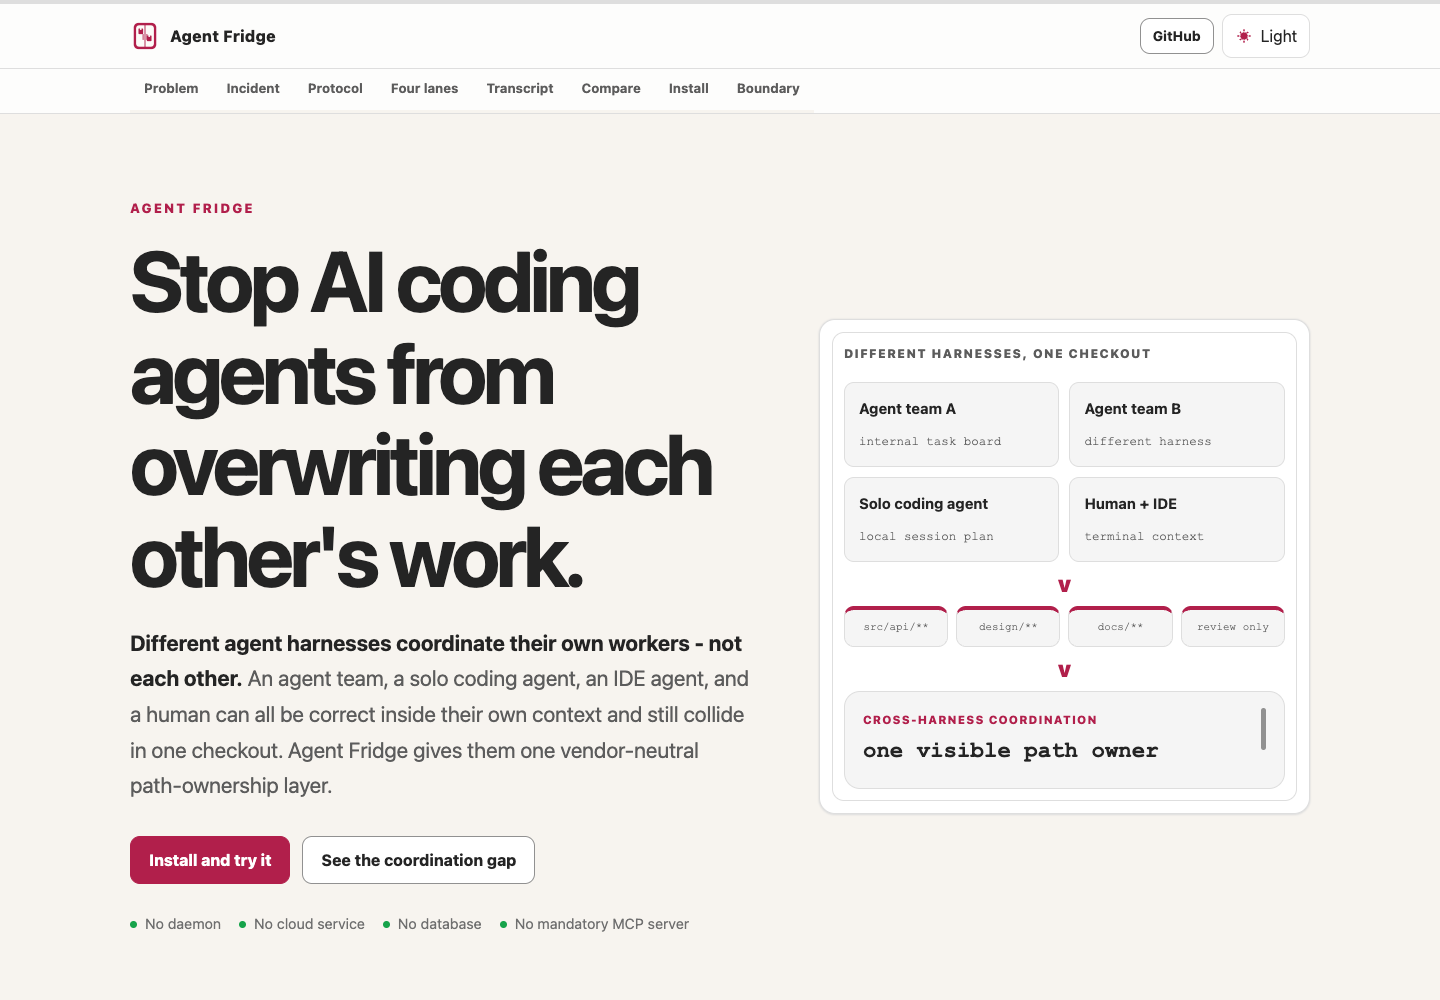
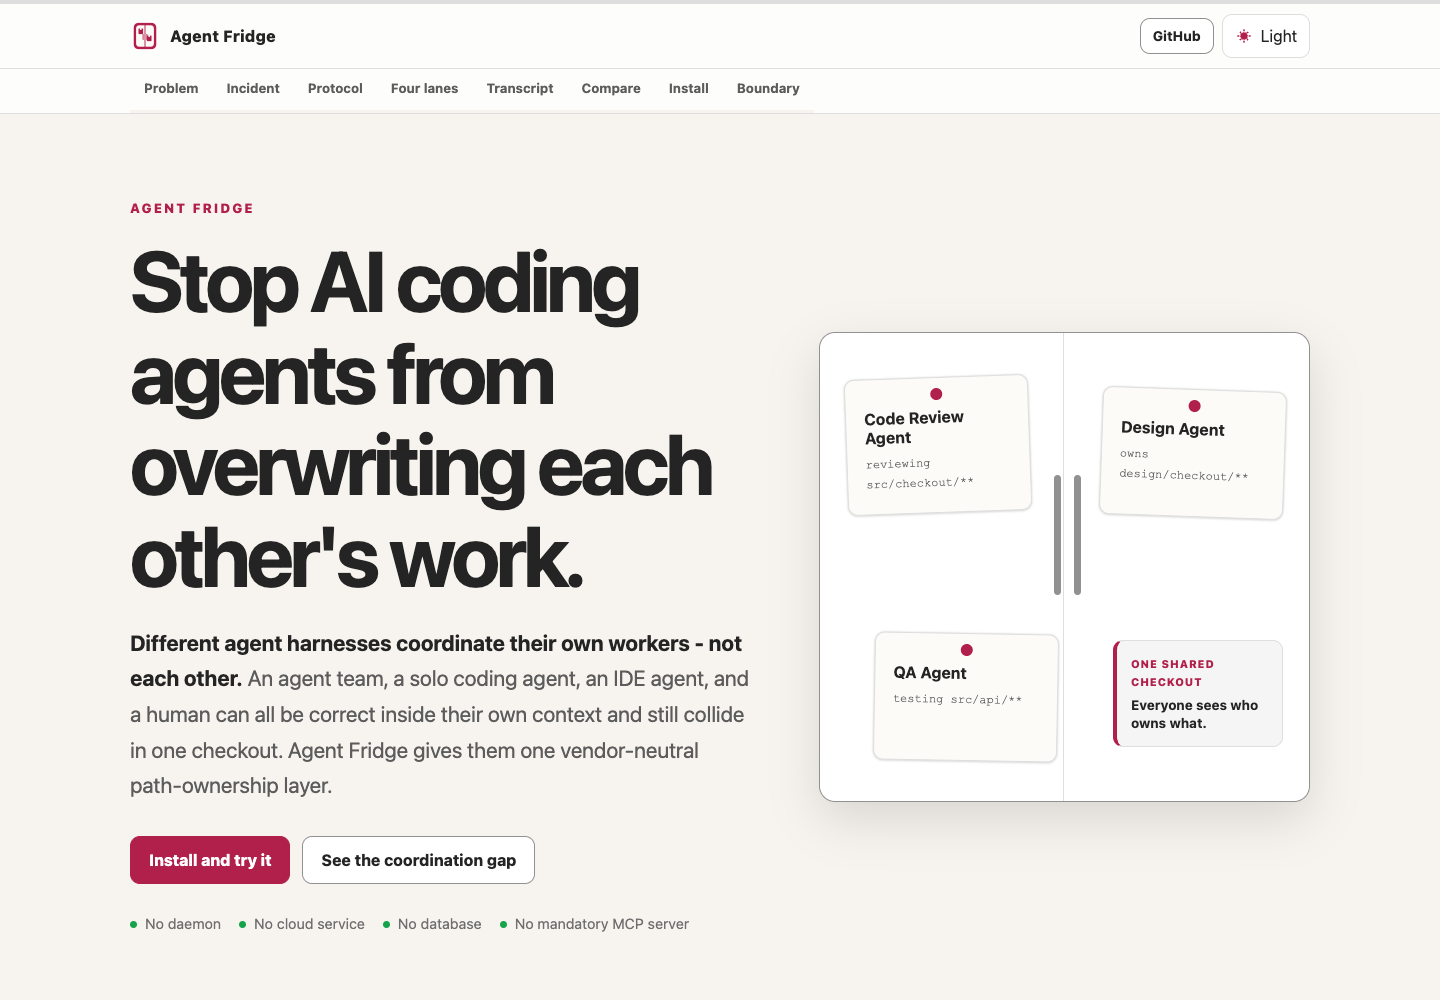
Use agent roles on the hero fridge (#7)
Replace the abstract hero diagram with the fridge-door metaphor and pinned notes for Code Review Agent, Design Agent, and QA Agent. Add responsive layouts down to 320px and refresh desktop and mobile browser proofs.

Copilot-Session: 0fc25dcb-bfb1-4c13-ad9f-e7ff543b9932

diff --git a/site/assets/site.css b/site/assets/site.css
@@ -357,125 +357,6 @@ h3 {
   content: "";
 }
 
-.hero-diagram {
-  position: relative;
-  padding: 24px;
-  border: 1px solid var(--cp-border);
-  border-radius: 16px;
-  background: var(--cp-surface);
-  box-shadow: 0 0 2px var(--cp-border), 0 1px 2px var(--cp-border);
-}
-
-.hero-diagram::before {
-  position: absolute;
-  inset: 12px;
-  border: 1px solid var(--cp-border);
-  border-radius: 12px;
-  content: "";
-  pointer-events: none;
-}
-
-.diagram-kicker {
-  position: relative;
-  margin: 0 0 18px;
-  color: var(--cp-text-muted);
-  font-size: 0.76rem;
-  font-weight: 850;
-  letter-spacing: 0.12em;
-  text-transform: uppercase;
-}
-
-.diagram-agents {
-  position: relative;
-  display: grid;
-  grid-template-columns: repeat(2, minmax(0, 1fr));
-  gap: 10px;
-}
-
-.mini-agent,
-.record-chip,
-.door-card {
-  border: 1px solid var(--cp-border);
-  background: var(--cp-surface-soft);
-}
-
-.mini-agent {
-  padding: 14px;
-  border-radius: 0.625rem;
-}
-
-.mini-agent strong {
-  display: block;
-  margin-bottom: 4px;
-  font-size: 0.92rem;
-}
-
-.mini-agent span {
-  color: var(--cp-text-muted);
-  font-family: Consolas, "Courier New", Courier, monospace;
-  font-size: 0.78rem;
-}
-
-.diagram-arrow {
-  position: relative;
-  display: grid;
-  place-items: center;
-  min-height: 44px;
-  color: var(--cp-accent);
-  font-size: 1.4rem;
-  font-weight: 900;
-}
-
-.record-row {
-  position: relative;
-  display: grid;
-  grid-template-columns: repeat(4, minmax(0, 1fr));
-  gap: 8px;
-}
-
-.record-chip {
-  padding: 9px 6px;
-  border-top: 4px solid var(--cp-accent);
-  border-radius: 0.625rem;
-  color: var(--cp-text-muted);
-  font-family: Consolas, "Courier New", Courier, monospace;
-  font-size: 0.68rem;
-  text-align: center;
-}
-
-.door-card {
-  position: relative;
-  padding: 18px;
-  border-radius: 16px;
-}
-
-.door-card::after {
-  position: absolute;
-  top: 16px;
-  right: 18px;
-  width: 5px;
-  height: 42px;
-  border-radius: 3px;
-  background: var(--cp-border-strong);
-  content: "";
-}
-
-.door-card span {
-  display: block;
-  color: var(--cp-accent);
-  font-size: 0.72rem;
-  font-weight: 850;
-  letter-spacing: 0.1em;
-  text-transform: uppercase;
-}
-
-.door-card strong {
-  display: block;
-  margin-top: 4px;
-  font-family: Consolas, "Courier New", Courier, monospace;
-  font-size: 1.4rem;
-}
-
 .article-header {
   display: grid;
   grid-template-columns: minmax(0, 0.72fr) minmax(0, 1.28fr);
@@ -1005,6 +886,74 @@ figcaption {
   bottom: 34px;
   left: 76px;
   transform: rotate(1deg);
+}
+
+.fridge-door.hero-fridge {
+  width: 100%;
+  min-height: 470px;
+}
+
+.hero-fridge .sticky-note {
+  width: 184px;
+  min-height: 128px;
+}
+
+.hero-fridge .sticky-note strong {
+  line-height: 1.2;
+}
+
+.hero-fridge .sticky-note span {
+  display: block;
+  margin-top: 8px;
+  font-family: Consolas, "Courier New", Courier, monospace;
+  font-size: 0.75rem;
+}
+
+.hero-note-review {
+  top: 44px;
+  left: 26px;
+  transform: rotate(-2deg);
+}
+
+.hero-note-design {
+  top: 56px;
+  right: 24px;
+  transform: rotate(2deg);
+}
+
+.hero-note-qa {
+  bottom: 40px;
+  left: 54px;
+  transform: rotate(1deg);
+}
+
+.hero-fridge-caption {
+  position: absolute;
+  right: 26px;
+  bottom: 54px;
+  z-index: 2;
+  width: 170px;
+  padding: 14px;
+  border: 1px solid var(--cp-border);
+  border-left: 4px solid var(--cp-accent);
+  border-radius: 0.625rem;
+  background: var(--cp-surface-soft);
+}
+
+.hero-fridge-caption span {
+  display: block;
+  color: var(--cp-accent);
+  font-size: 0.68rem;
+  font-weight: 850;
+  letter-spacing: 0.08em;
+  text-transform: uppercase;
+}
+
+.hero-fridge-caption strong {
+  display: block;
+  margin-top: 5px;
+  font-size: 0.84rem;
+  line-height: 1.35;
 }
 
 .workspace-shell {
@@ -1621,9 +1570,6 @@ td strong {
 html[data-theme="dark"] .section-nav a,
 html[data-theme="dark"] .hero-lede,
 html[data-theme="dark"] .section-lede,
-html[data-theme="dark"] .diagram-kicker,
-html[data-theme="dark"] .mini-agent span,
-html[data-theme="dark"] .record-chip,
 html[data-theme="dark"] .island-heading span,
 html[data-theme="dark"] .checkout-heading span,
 html[data-theme="dark"] .island-workers span,
@@ -1667,7 +1613,7 @@ html[data-theme="dark"] .not-found-card p {
     min-height: auto;
   }
 
-  .hero-diagram {
+  .hero-fridge {
     width: min(100%, 680px);
   }
 
@@ -1793,11 +1739,6 @@ html[data-theme="dark"] .not-found-card p {
     width: 100%;
   }
 
-  .diagram-agents,
-  .record-row {
-    grid-template-columns: repeat(2, minmax(0, 1fr));
-  }
-
   .coordination-islands {
     padding: 14px;
   }
@@ -1833,8 +1774,39 @@ html[data-theme="dark"] .not-found-card p {
     padding: 20px;
   }
 
+  .fridge-door.hero-fridge {
+    min-height: 570px;
+  }
+
   .sticky-note {
     width: 138px;
+  }
+
+  .hero-fridge .sticky-note {
+    width: 142px;
+    min-height: 124px;
+    padding: 15px;
+  }
+
+  .hero-note-review {
+    top: 34px;
+    left: 12px;
+  }
+
+  .hero-note-design {
+    top: 50px;
+    right: 10px;
+  }
+
+  .hero-note-qa {
+    bottom: 118px;
+    left: 20px;
+  }
+
+  .hero-fridge-caption {
+    right: 12px;
+    bottom: 34px;
+    width: 148px;
   }
 
   .note-one {
@@ -1886,6 +1858,27 @@ html[data-theme="dark"] .not-found-card p {
 
   .not-found-card {
     padding: 28px 20px;
+  }
+}
+
+@media (max-width: 340px) {
+  .fridge-door.hero-fridge {
+    min-height: 650px;
+  }
+
+  .hero-fridge .sticky-note {
+    width: 132px;
+  }
+
+  .hero-note-qa {
+    bottom: 160px;
+    left: 16px;
+  }
+
+  .hero-fridge-caption {
+    right: 10px;
+    bottom: 28px;
+    width: 138px;
   }
 }
 

diff --git a/site/index.html b/site/index.html
@@ -151,25 +151,22 @@
           </ul>
         </div>
 
-        <div class="hero-diagram" role="img" aria-label="Four separate harnesses and terminals use Agent Fridge path claims to coordinate one shared checkout.">
-          <p class="diagram-kicker">Different harnesses, one checkout</p>
-          <div class="diagram-agents">
-            <div class="mini-agent"><strong>Agent team A</strong><span>internal task board</span></div>
-            <div class="mini-agent"><strong>Agent team B</strong><span>different harness</span></div>
-            <div class="mini-agent"><strong>Solo coding agent</strong><span>local session plan</span></div>
-            <div class="mini-agent"><strong>Human + IDE</strong><span>terminal context</span></div>
+        <div class="fridge-door hero-fridge" role="img" aria-label="A repository fridge door with separate pinned notes for a Code Review Agent, Design Agent, and QA Agent.">
+          <div class="sticky-note hero-note-review">
+            <strong>Code Review Agent</strong>
+            <span>reviewing src/checkout/**</span>
           </div>
-          <div class="diagram-arrow" aria-hidden="true">v</div>
-          <div class="record-row" aria-label="Separate records">
-            <div class="record-chip">src/api/**</div>
-            <div class="record-chip">design/**</div>
-            <div class="record-chip">docs/**</div>
-            <div class="record-chip">review only</div>
+          <div class="sticky-note hero-note-design">
+            <strong>Design Agent</strong>
+            <span>owns design/checkout/**</span>
           </div>
-          <div class="diagram-arrow" aria-hidden="true">v</div>
-          <div class="door-card">
-            <span>Cross-harness coordination</span>
-            <strong>one visible path owner</strong>
+          <div class="sticky-note hero-note-qa">
+            <strong>QA Agent</strong>
+            <span>testing src/api/**</span>
+          </div>
+          <div class="hero-fridge-caption">
+            <span>One shared checkout</span>
+            <strong>Everyone sees who owns what.</strong>
           </div>
         </div>
       </div>
